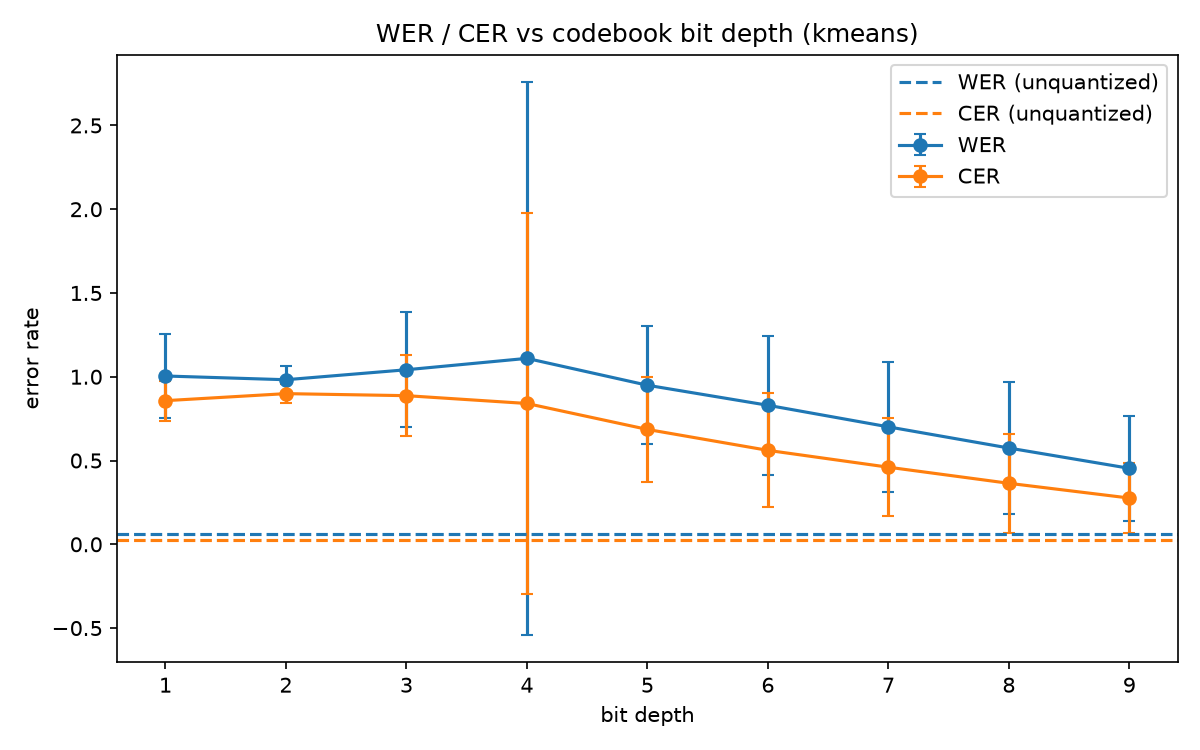
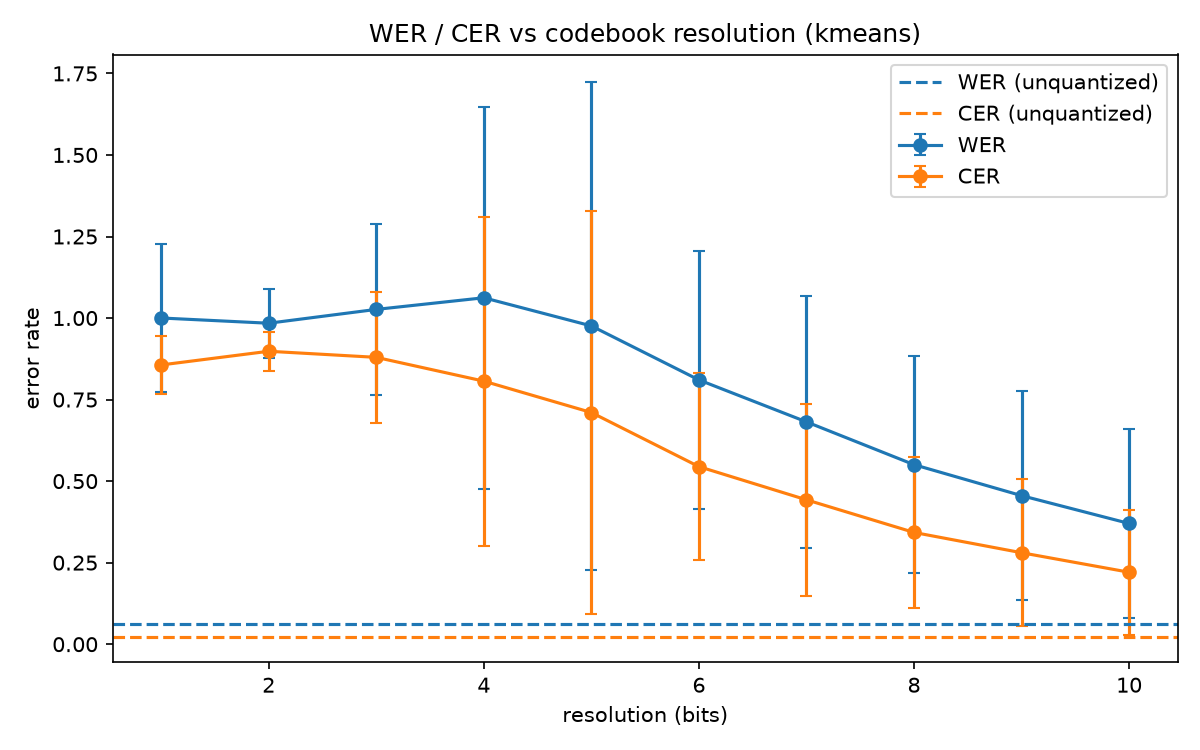
Update sweep results with CSV export and narrowed bitdepth range
Rerun kmeans and gmmem sweeps over resolution 1-10 bits, now saving
results to CSV alongside the plots.

diff --git a/experiment/pipeline.py b/experiment/pipeline.py
@@ -56,8 +56,8 @@ def extract_train_features():
     train_subset = tqdm(islice(ds, 5000), total=5000, desc="extracting train features")
     return np.concatenate([front_end(u, quantize=False, pad=False)[0].T for u in train_subset], axis=0)  # (total_frames, 80)
 
-def train(X, bitdepth=8, algorithm="kmeans"):
-    K = 2**bitdepth
+def train(X, b=8, algorithm="kmeans"):
+    K = 2**b
     return ALGORITHMS[algorithm](X, K)
 
 def decode_with_fallback(model, mel_torch, fp16, temperatures=(0.0, 0.2, 0.4, 0.6, 0.8, 1.0),
@@ -125,22 +125,22 @@ def plot_sweep(bitdepth, mean_wer_hist, mean_cer_hist, std_wer_hist, std_cer_his
 
 def main(algorithm="kmeans"):
     mean_wer_hist, mean_cer_hist, std_wer_hist, std_cer_hist = [], [], [], []
-    bitdepth = list(range(1, 12))
+    B = list(range(1, 11))
     X = extract_train_features()
     model = whisper.load_model("base").to(get_device())
     test_dataset = load_split("test.clean").shuffle().select(range(1000))
     baseline_wer, baseline_cer, _, _ = evaluate(model, test_dataset, quantize=False)
     print(f"unquantized baseline: WER={baseline_wer:.3f} CER={baseline_cer:.3f}")
-    for b in bitdepth:
+    for b in B:
         codebook = train(X, b, algorithm=algorithm)
         wer_mean, cer_mean, wer_std, cer_std = evaluate(model, test_dataset, codebook)
         mean_wer_hist.append(wer_mean)
         mean_cer_hist.append(cer_mean)
         std_wer_hist.append(wer_std)
         std_cer_hist.append(cer_std)
-    plot_sweep(bitdepth, mean_wer_hist, mean_cer_hist, std_wer_hist, std_cer_hist, algorithm=algorithm,
+    plot_sweep(B, mean_wer_hist, mean_cer_hist, std_wer_hist, std_cer_hist, algorithm=algorithm,
                baseline_wer=baseline_wer, baseline_cer=baseline_cer)
-    save_sweep_csv(bitdepth, mean_wer_hist, mean_cer_hist, std_wer_hist, std_cer_hist, algorithm=algorithm,
+    save_sweep_csv(B, mean_wer_hist, mean_cer_hist, std_wer_hist, std_cer_hist, algorithm=algorithm,
                    baseline_wer=baseline_wer, baseline_cer=baseline_cer)
 
 if __name__ == "__main__":
